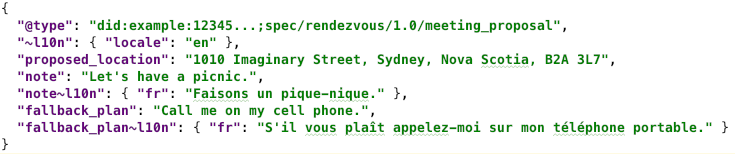
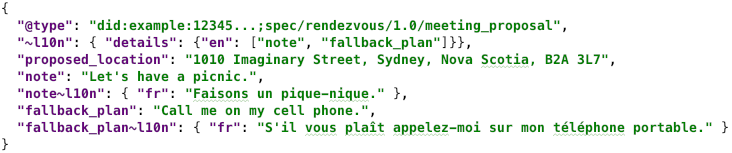
Update verbiage about message scope

diff --git a/text/localized-messages/README.md b/text/localized-messages/README.md
@@ -97,14 +97,17 @@ But suppose we evolved our message type, and it ended up having 2 fields that
 were localization-worthy. Both would likely use the same locale in their values,
 but we don't really want to repeat that locale twice. The preferred way to handle
 this is to decorate the *message* with semantics that apply message-wide, and to
-decorate *fields* with semantics that apply just to fields. Following this pattern
-puts our example message into a more canonical form:
+decorate *fields* with semantics that apply just to field instances or to fields
+in the abstracts. Following this pattern puts our example message into a more
+canonical form:
 
 [![The ~l10n decorator at message scope](message-scope.png)](message-scope.json)
 
 ### Decorator at Message Type Scope
 
-What if the sender of a message doesn't have the ability to send French alternatives?
+Note, however, that some of the metadata we're adding with our message-level
+decorator may actually  we've moved into the message scope may be true
+of all messages of this type--not just What if the sender of a message doesn't have the ability to send French alternatives?
 Or what if the receiver speaks Spanish, not French?
 
 If we know which fields are localizable, and we know the source locale of the content,
